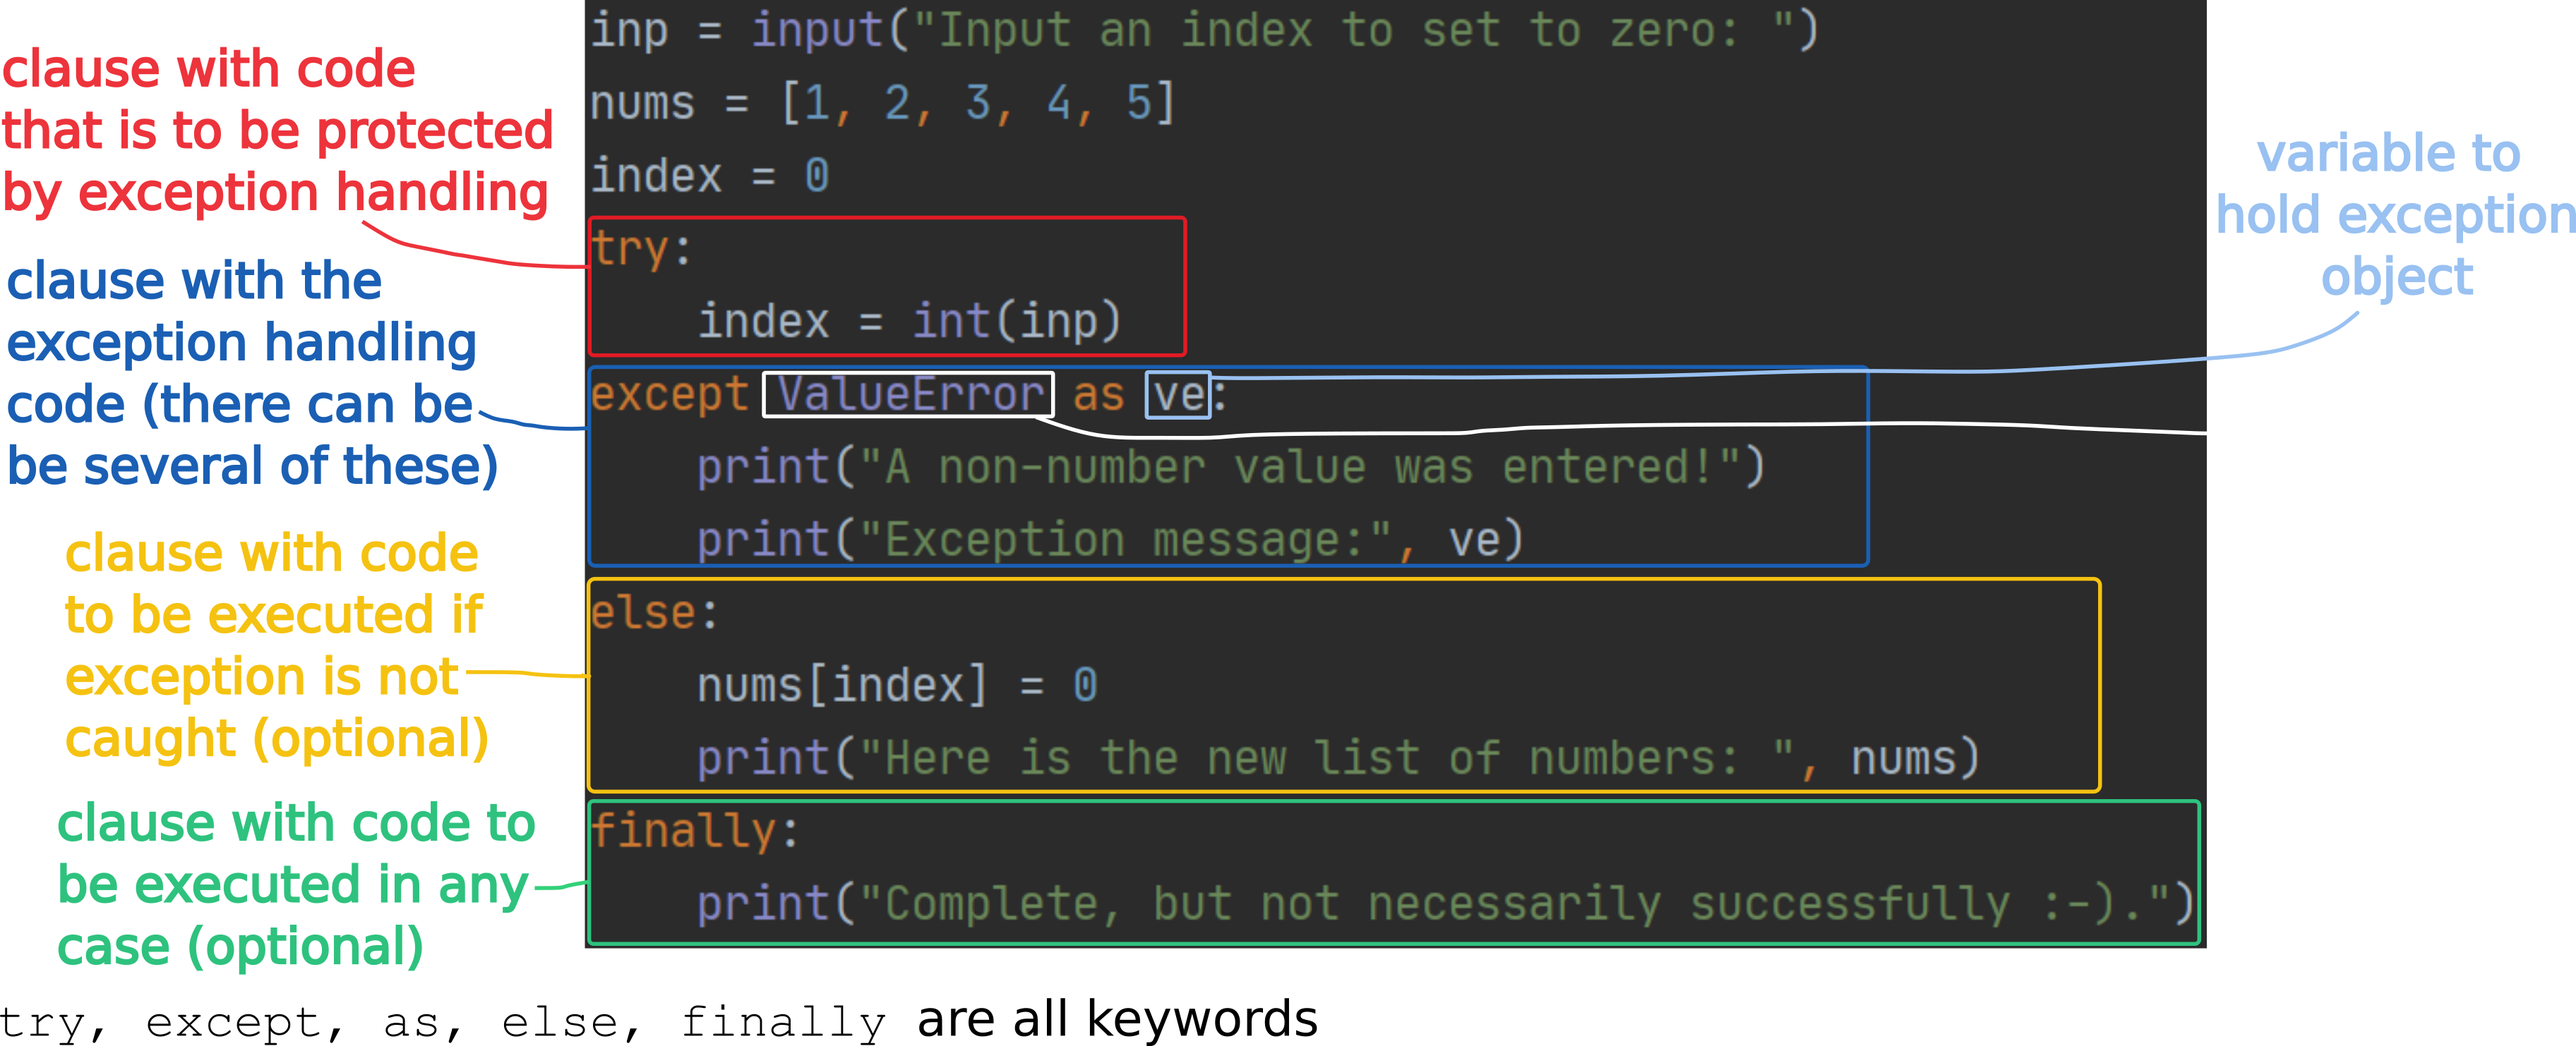
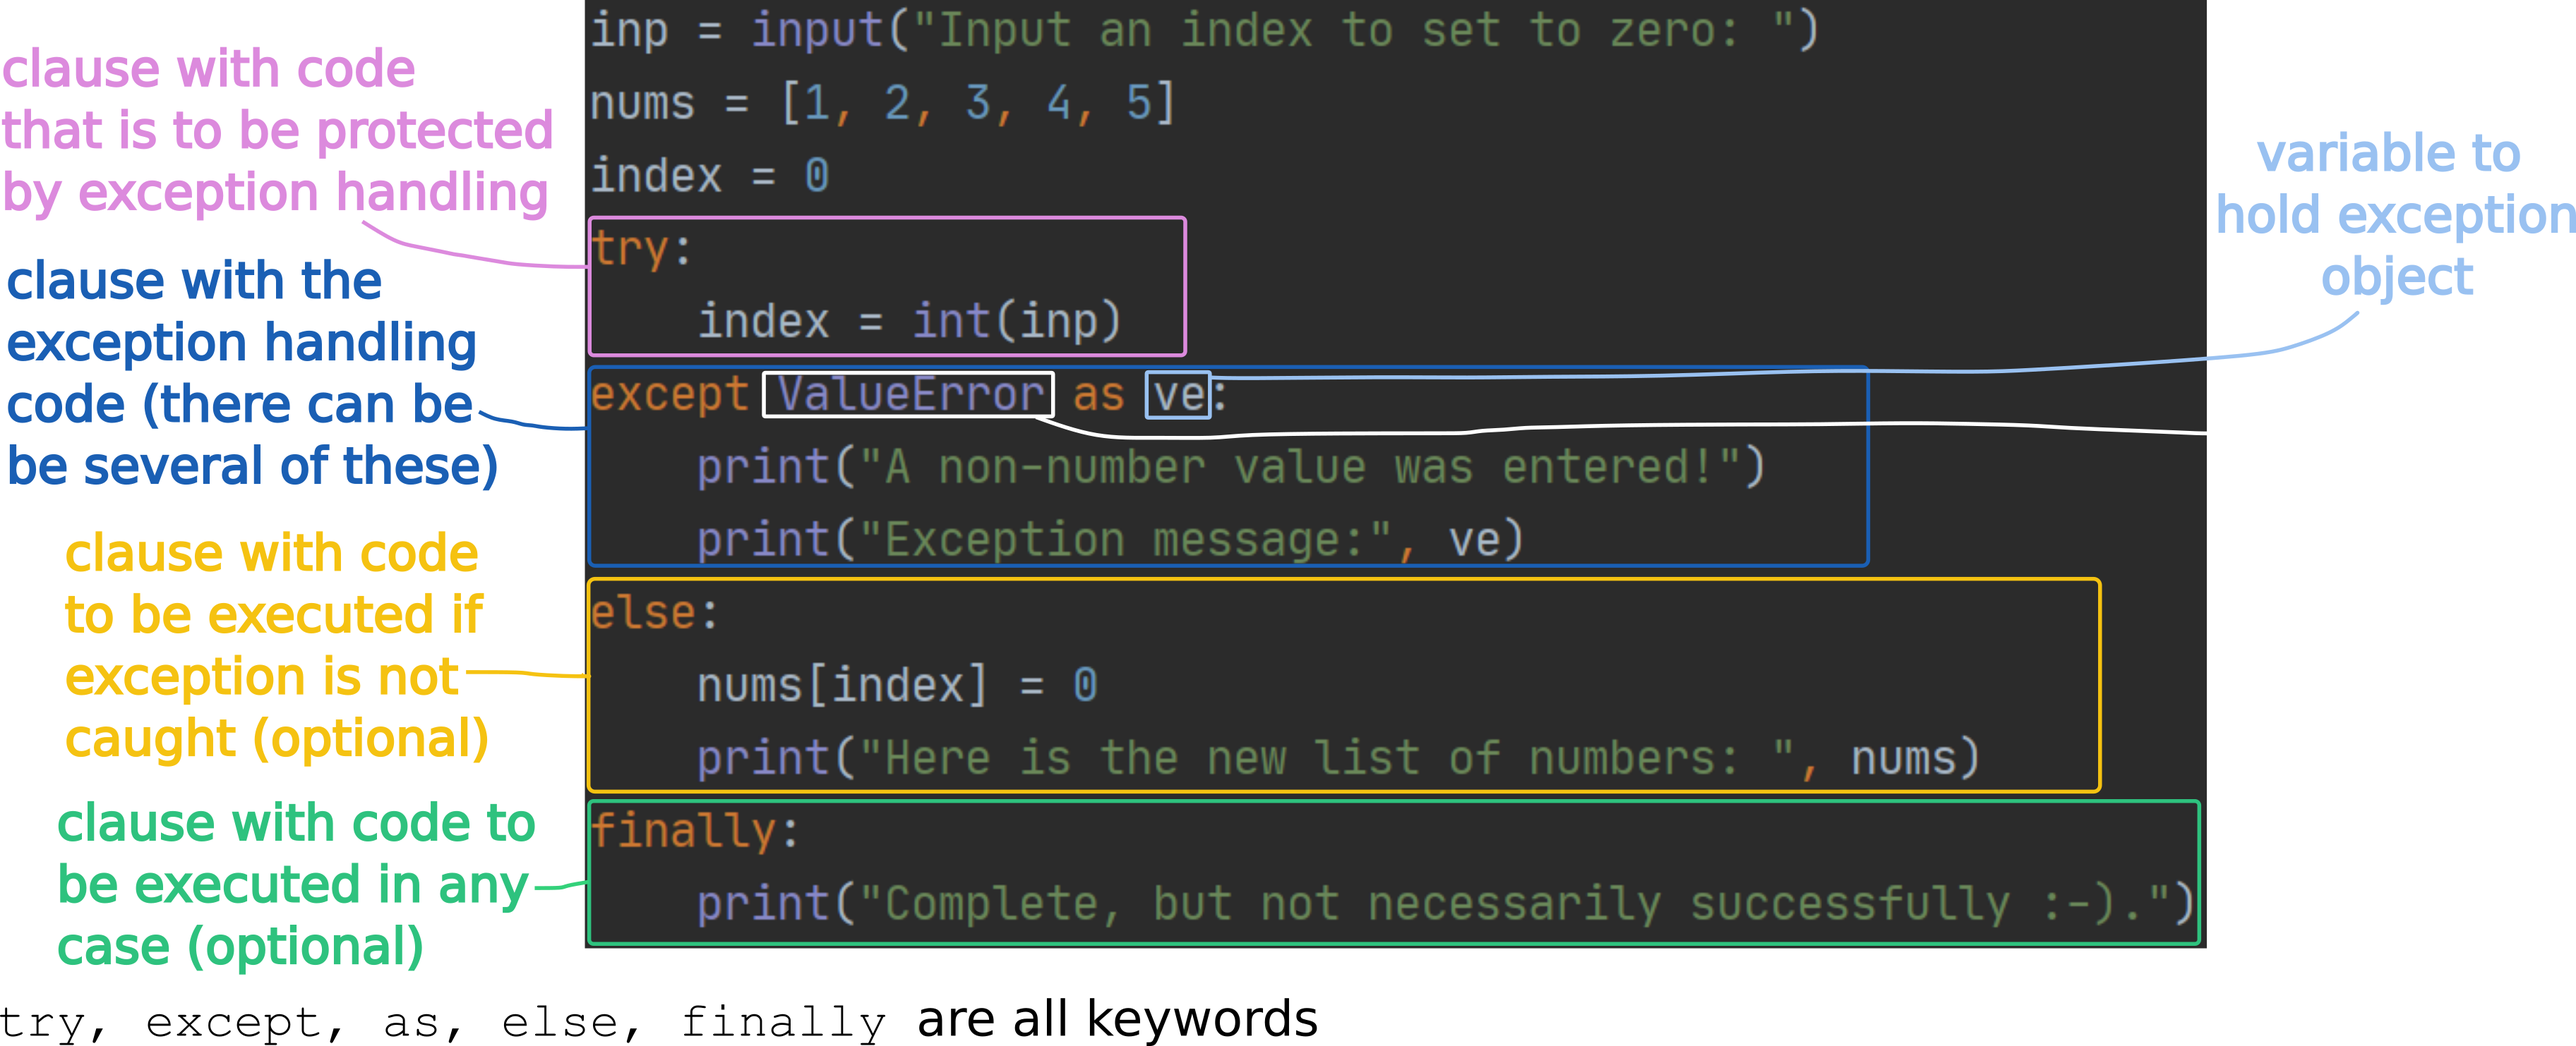
bkp

Changed region(s): [[0.0, 0.031, 0.4686, 0.2481], [0.2187, 0.3102, 0.4686, 0.3412], [0.1874, 0.2481, 0.2187, 0.2792]]

diff --git a/ooswd/lab_A_exceptions.html b/ooswd/lab_A_exceptions.html
@@ -37,17 +37,13 @@
 	    <article>
 		<section class="tutorial-panel clearfix">
 		    <h2>Exercise 1</h2>
-		    <p>Starting with your solution (or the given one) to exercise 3 in lab assignment <em>Revision, strings, lists</em> (week 2):
+		    <p>Starting with your solution (or the given one) to exercise 3 in lab assignment <em>Revision, strings, lists</em> (week 2), refactor the code so that:
 			<ol type="a">
-			    <li>improve the code by refactoring it to use constructs learnt since (e.g. loops) and, specifically, implement a function that orders a list given preference numbers like those expected in the program</li>
-			    <li>handle any number of items greater than 1, rather than 5</li>
-			    <li>handle the following errors, with exceptions or otherwise, as appropriate:
-				<ul>
-				    <li>the number of items entered is less than 2</li>
-				    <li>the count of the preference ordering numbers entered does not match the item count</li>
-				    <li>any of the preference ordering numbers are not integers in the correct range (e.g. 1 - 5)</li>
-				</ul>
-			    </li>
+			    <li>the reading of the items is performed by a function, which should accept any number of items greater than 1, otherwise raise an exception</li>
+			    <li>the reading of the ids in order of preference should be performed by a function, which prints the options and raises an exception if the numbers do not correspond exactly to the options (decide which argument this function should take)</li>
+			    <li>the ordering of the item list based on preference is performed by a function, with the use of a list comprehension</li>
+			    <li>the reporting of the result is performed by a function</li>
+			    <li>the script uses the four functions described above to carry out its task, handling any exceptions that arise</li>
 			</ol>
 		    </p>
 		</section>

diff --git a/ooswd/index.html b/ooswd/index.html
@@ -214,10 +214,12 @@
 		    <th>16/11/2026</th>
 		    <th>10</th>
 		    <td class="lec">
+			<a href="lec_H_exceptions.html">Exceptions</a>
 		    </td>
 		    <td class="lec">
 		    </td>
 		    <td class="lab">
+			<a href="lab_A_exceptions.html">Exceptions</a>	      
 		    </td>
 		    <td class="sol">
 		    </td>

diff --git a/ooswd/res/files/lab_solutions/exceptions_e1.py b/ooswd/res/files/lab_solutions/exceptions_e1.py
@@ -1,0 +1,45 @@
+def read_items():
+    items = input("Enter a list of more than 1 items to be rated, separated by spaces: ").split()
+    if len(items) < 2:
+        raise ValueError("There should be at least two items in the list.")
+    return items
+
+def read_order(items):
+    print("\nItem ids:\n")
+    print("".join([f"{index + 1} {item}\n" for index, item in enumerate(items)]))
+    count = len(items)
+    preference_strs = input("Enter the item ids in order of your preference for the items, separated by spaces: ").split()
+    if sorted(preference_strs) != [str(i) for i in range(1, count + 1)]:
+        raise ValueError(f"The preference list must contain all ids from 1 to {count} and nothing else.")
+
+    return [int(int_str) for int_str in preference_strs]
+
+def order_items(items, pref_nums):
+    return [items[num - 1] for num in pref_nums]
+
+def print_ordered(items):
+    print(f"The items, ordered by your preference: {" ".join(items)}")
+
+item_list = None
+ord_list = None
+while not item_list:
+    try:
+        item_list = read_items()
+    except ValueError as ve:
+        print(ve, end=" ")
+        print("Try again.")
+    else:
+        while not ord_list:
+            try:
+                ord_list = read_order(item_list)
+            except ValueError as ve:
+                print(ve, end=" ")
+                print("Try again.")
+            else:
+                print_ordered(order_items(item_list, ord_list))
+
+
+
+
+
+
